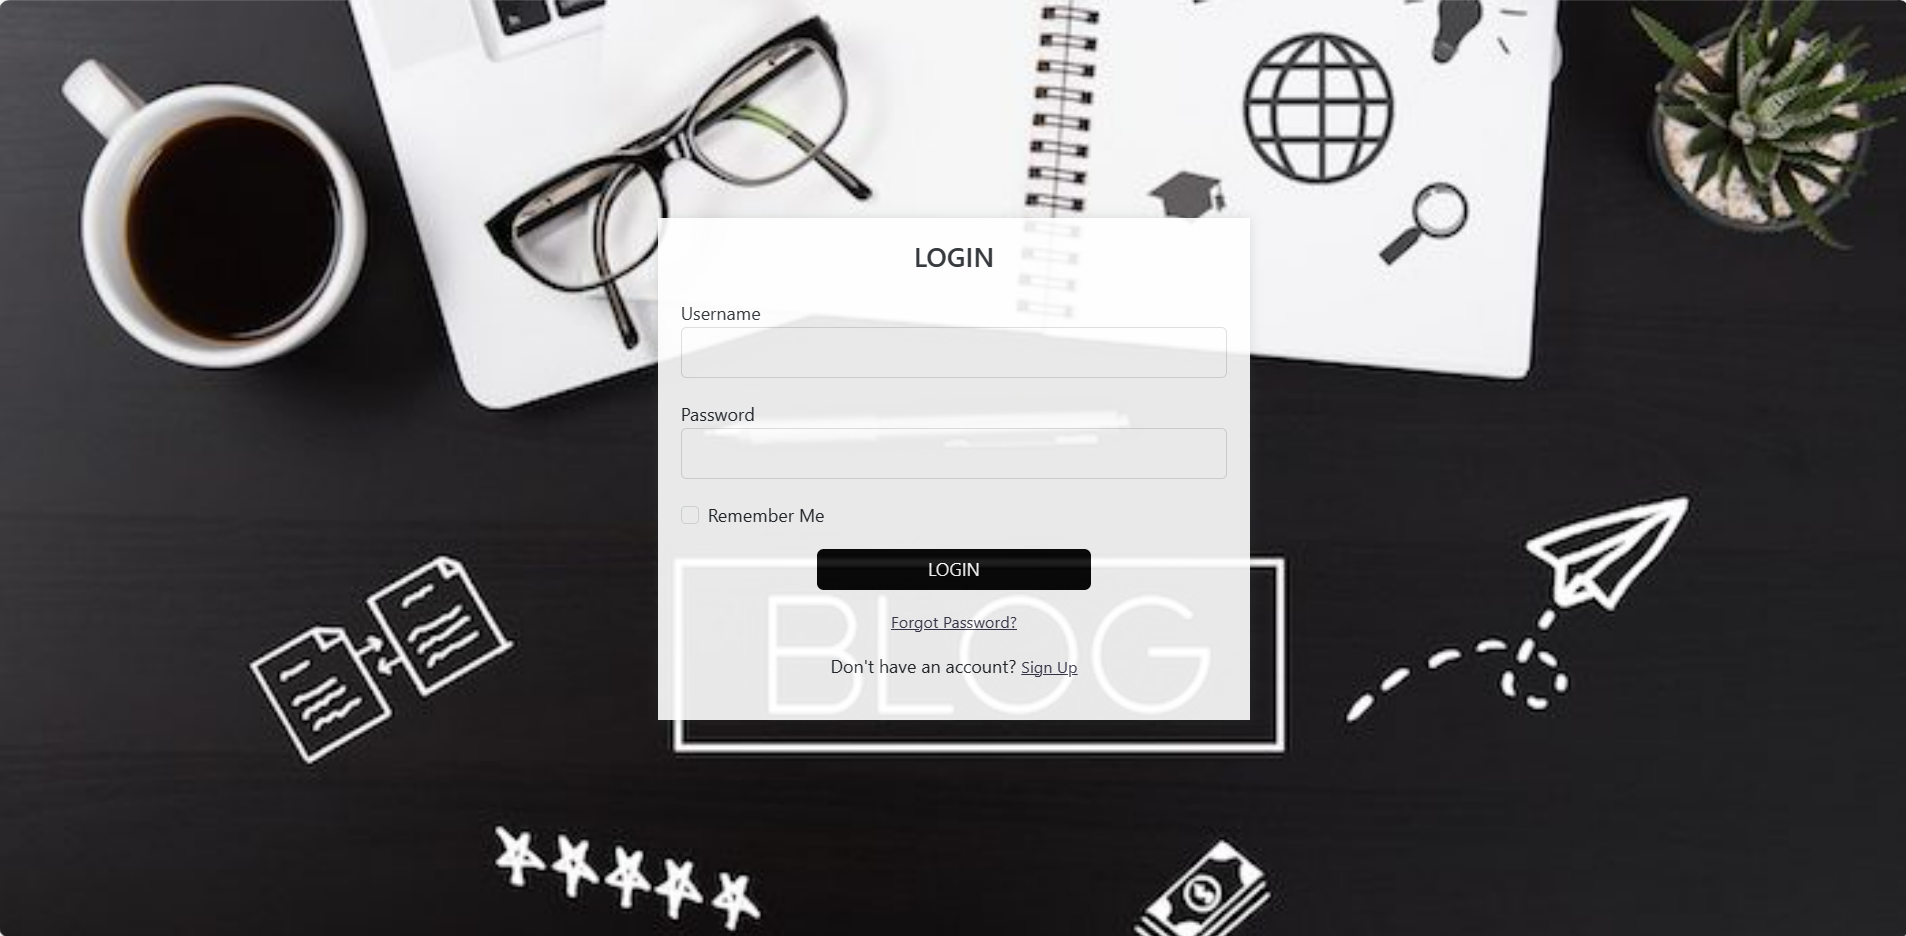
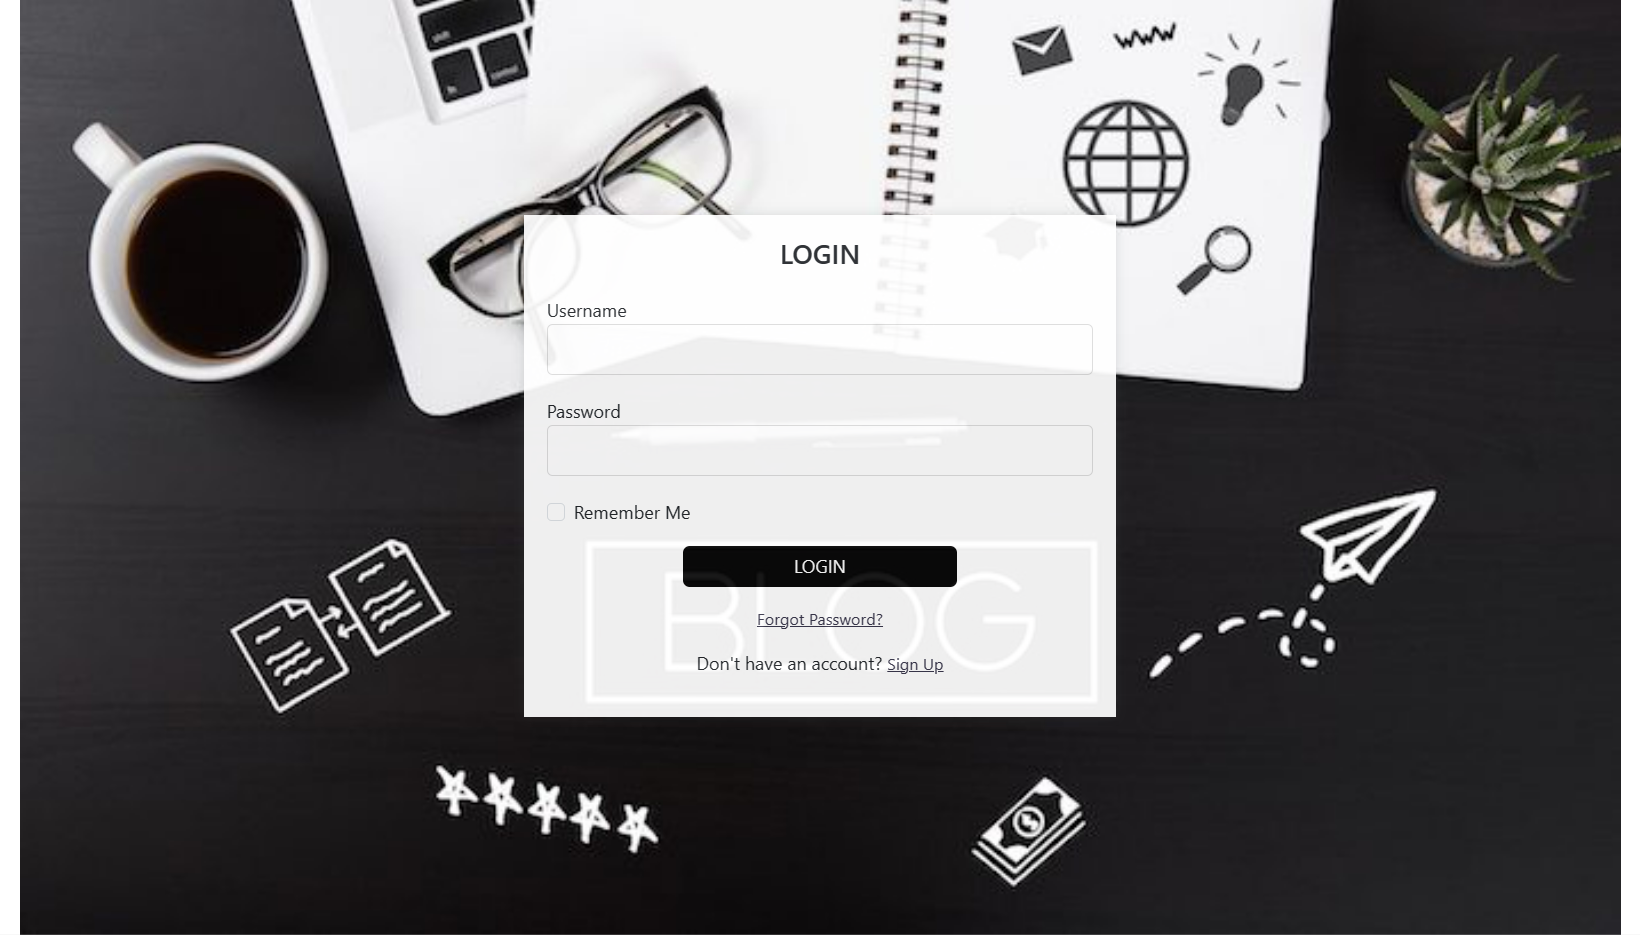
styles changed for login page

diff --git a/styles/landing.css b/styles/landing.css
@@ -2,10 +2,10 @@
 body {
 
     background-image: url('../images/login.jpg');
-    background-size: cover;
+    background-size: contain;
     background-position: center;
     background-repeat: no-repeat;
-    opacity: 0.9;
+    opacity: 0.93;
 }
 
 /* Center the login form vertically */
